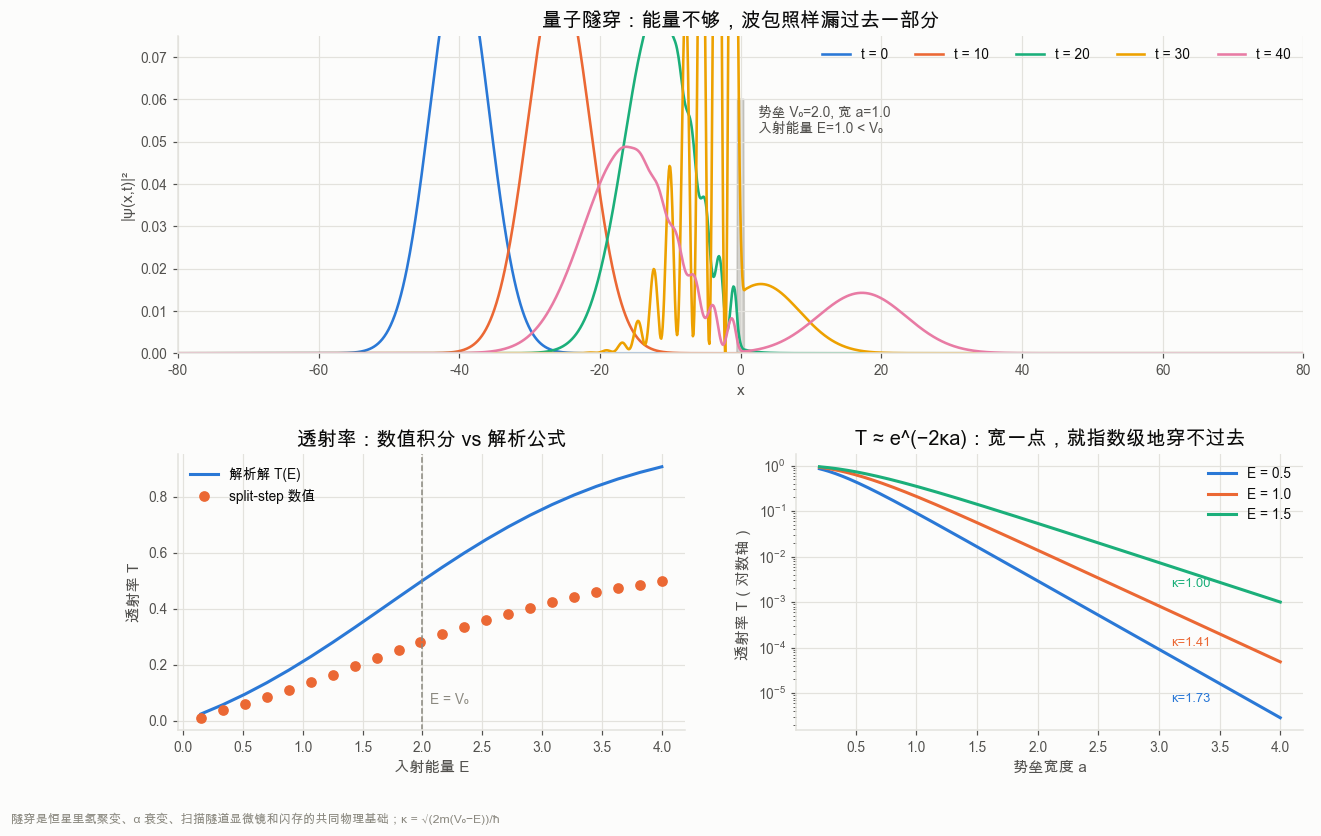
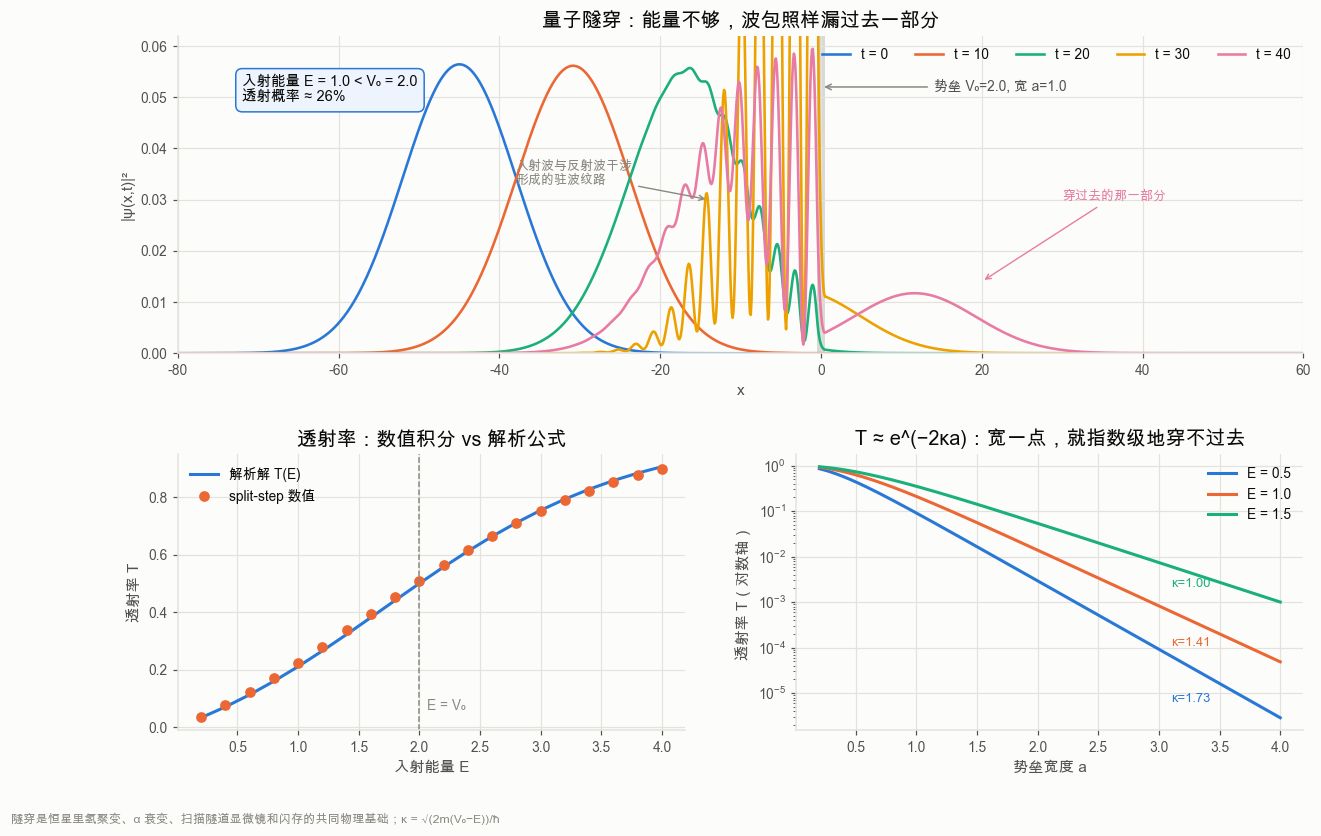
update

diff --git a/qhv/s03_schrodinger.py b/qhv/s03_schrodinger.py
@@ -132,30 +132,45 @@ def fig_tunneling():
 
     # (a) 一次演化的快照：E < V0，仍有一部分穿过去
     k0 = math.sqrt(2 * 1.0)          # E = k0²/2 = 1.0 < V0 = 2.0
-    psi0 = gaussian_packet(x, -40.0, k0, 6.0)
+    psi0 = gaussian_packet(x, -45.0, k0, 10.0)
     dt, steps = 0.01, 5000
-    _, snaps = split_step(psi0, x, V - 1j * 0 + absorber * 0, dt, steps, snap_every=1000)
+    _, snaps = split_step(psi0, x, V, dt, steps, snap_every=1000)
     ax = fig.add_subplot(gs[0, :])
-    for i, s in enumerate(snaps):
+    ax.axvspan(-a / 2, a / 2, color=INK_MUTED, alpha=0.30, lw=0)
+    ax.annotate(f"势垒 V₀={V0}, 宽 a={a}", xy=(0, 0.052), xytext=(14, 0.052),
+                fontsize=9, color=INK_2, va="center",
+                arrowprops=dict(arrowstyle="->", color=INK_MUTED, lw=1))
+    for i, sn in enumerate(snaps):
         t = i * 1000 * dt
-        ax.plot(x, s.abs() ** 2 + 0, color=SERIES[i % 8], lw=1.7, label=f"t = {t:.0f}")
-    ax.fill_between(x.numpy(), 0, (V / V0 * 0.06).numpy(), color=INK_MUTED, alpha=0.35)
-    ax.text(2.5, 0.052, f"势垒 V₀={V0}, 宽 a={a}\n入射能量 E=1.0 < V₀", fontsize=9, color=INK_2)
-    ax.set_xlim(-80, 80); ax.set_ylim(0, 0.075)
+        ax.plot(x, sn.abs() ** 2, color=SERIES[i % 8], lw=1.7, label=f"t = {t:.0f}")
+    ax.text(-72, 0.049, "入射能量 E = 1.0 < V₀ = 2.0\n透射概率 ≈ 26%", fontsize=9.5,
+            color=INK, bbox=dict(boxstyle="round,pad=0.45", fc="#eef4fd",
+                                 ec=C["blue"], lw=1))
+    ax.annotate("入射波与反射波干涉\n形成的驻波纹路", xy=(-14, 0.030), xytext=(-38, 0.033),
+                fontsize=8.5, color=INK_MUTED,
+                arrowprops=dict(arrowstyle="->", color=INK_MUTED, lw=0.9))
+    ax.annotate("穿过去的那一部分", xy=(20, 0.014), xytext=(30, 0.030),
+                fontsize=8.5, color=C["magenta"],
+                arrowprops=dict(arrowstyle="->", color=C["magenta"], lw=0.9))
+    ax.set_xlim(-80, 60); ax.set_ylim(0, 0.062)
     ax.set_xlabel("x"); ax.set_ylabel("|ψ(x,t)|²")
     ax.set_title("量子隧穿：能量不够，波包照样漏过去一部分")
     ax.legend(ncol=5, loc="upper right")
 
     # (b) 透射率 vs 能量：数值 vs 解析
-    energies = np.linspace(0.15, 4.0, 22)
+    # 逐个能量做一次完整演化：波包在空间上要足够宽（动量分布才够窄），
+    # 演化时间取「透射部分刚好完全越过势垒」，此时反射部分还没跑到边界，
+    # 避免 FFT 的周期性边界让它绕回来污染结果。
+    energies = np.linspace(0.2, 4.0, 20)
+    dx = float(x[1] - x[0])
+    x0, travel = -70.0, 140.0
     T_num = []
     for E in energies:
-        kk = math.sqrt(2 * E)
-        p0 = gaussian_packet(x, -60.0, kk, 12.0)     # 宽包 → 动量分布窄
-        psiT, _ = split_step(p0, x, V, 0.01, int(6500 / max(kk, 0.6)))
-        dx = float(x[1] - x[0])
-        right = (x > a / 2 + 3)
-        T_num.append(float((psiT.abs() ** 2)[right].sum() * dx))
+        kk = math.sqrt(2 * E)                        # 群速度 v = k (ħ=m=1)
+        p0 = gaussian_packet(x, x0, kk, 10.0)
+        steps = int(travel / (kk * 0.01))
+        psiT, _ = split_step(p0, x, V, 0.01, steps)
+        T_num.append(float((psiT.abs() ** 2)[x > a / 2 + 4].sum() * dx))
     T_ana = barrier_T_analytic(energies, V0, a)
     ax = fig.add_subplot(gs[1, 0])
     ax.plot(energies, T_ana, color=C["blue"], lw=2, label="解析解 T(E)")
